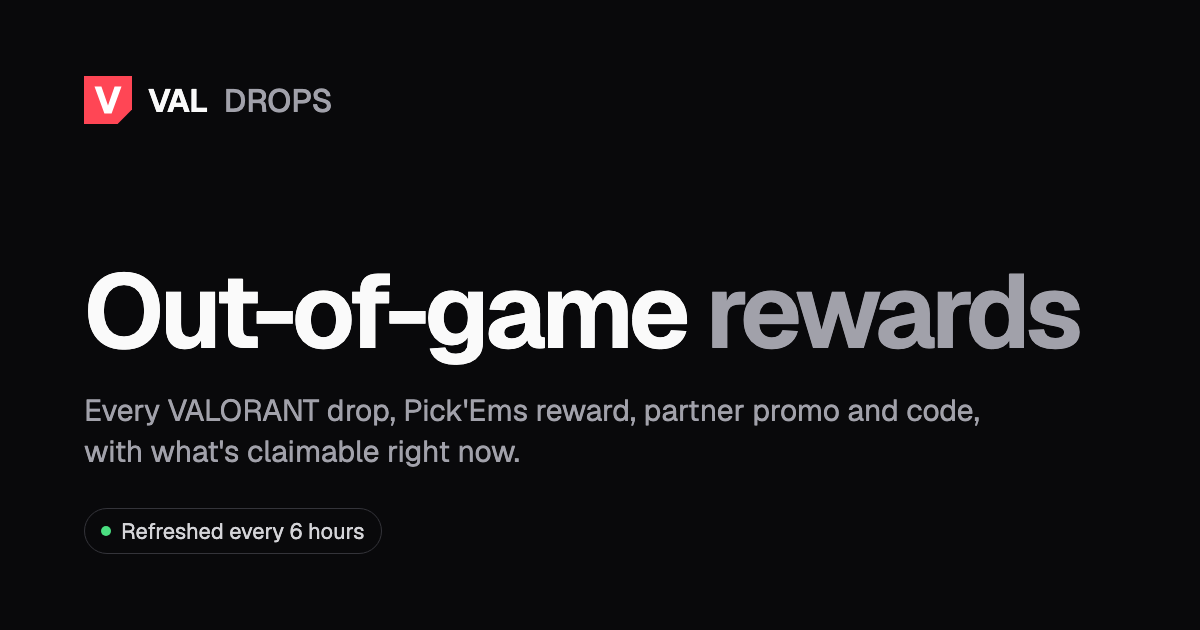
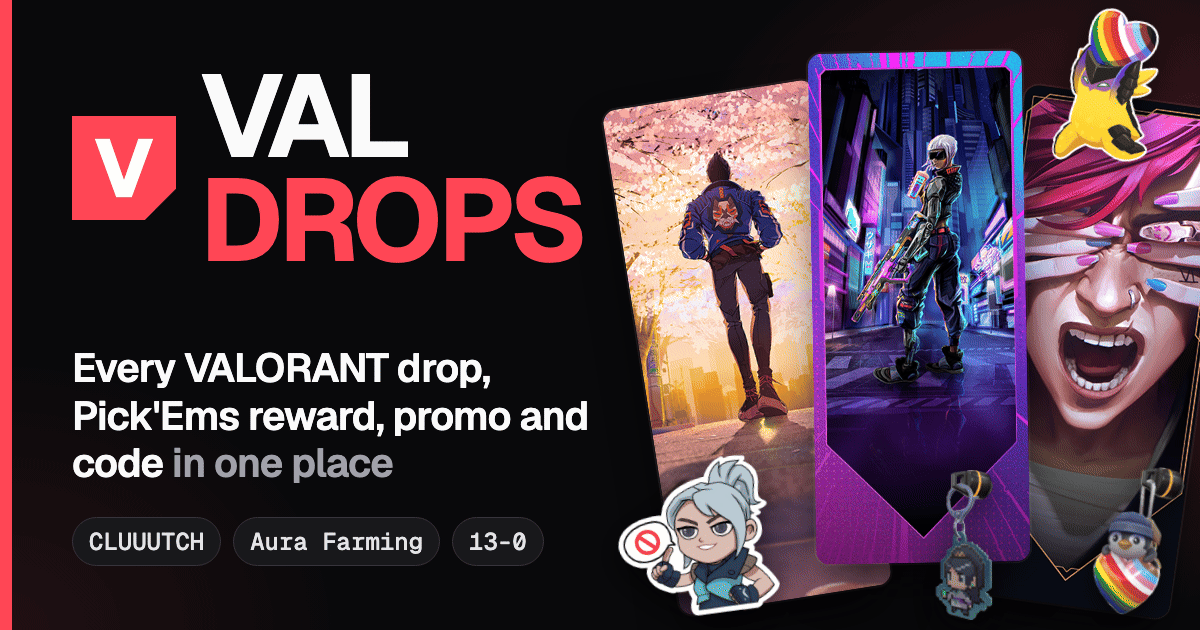
feat: redesign og:image with real item art
Link previews on Reddit/Discord showed plain text on black. The new
1200x630 image fans out real player cards, sprays and buddies from img/,
shows a few titles as pills, and keeps "VAL DROPS" large enough to read
at Reddit's ~240px thumbnail. No Riot logos or wordmark.

diff --git a/scripts/og-image.html b/scripts/og-image.html
@@ -1,32 +1,75 @@
 <!doctype html>
-<!-- Source for assets/og.png (1200×630 social preview). Render a 1200×630 screenshot of #og to regenerate it. -->
+<!-- Source for assets/og.png (1200×630 social preview). Serve the repo root (python3 -m http.server),
+     open /scripts/og-image.html at a 1200×630 viewport and screenshot #og to regenerate it.
+     The raw screenshot is ~700KB; shrink it to a 256-colour PNG (~215KB) with:
+     ffmpeg -i shot.png -vf "split[a][b];[a]palettegen=stats_mode=full[p];[b][p]paletteuse=dither=sierra2_4a" assets/og.png
+     Art is real item images from img/; no Riot logos or wordmarks, since this is a fan project.
+     The name and tagline are sized to stay readable when Reddit shrinks the image to ~240px wide. -->
 <html lang="en">
 <head>
 <meta charset="utf-8">
 <style>
   @font-face { font-family: "Geist"; font-weight: 400 700; src: url(../assets/fonts/geist-latin.woff2) format("woff2"); }
+  @font-face { font-family: "Geist Mono"; font-weight: 500; src: url(../assets/fonts/geist-mono-latin.woff2) format("woff2"); }
   body { margin: 0; }
   #og {
-    width: 1200px; height: 630px; box-sizing: border-box; padding: 76px 84px;
-    display: flex; flex-direction: column; background: #09090b; color: #fafafa; font-family: "Geist", sans-serif;
+    position: relative; overflow: hidden;
+    width: 1200px; height: 630px; box-sizing: border-box; padding: 64px 0 64px 72px;
+    /* A dark card with a soft brand glow reads as a distinct tile on both dark and light feeds. */
+    background:
+      radial-gradient(640px 520px at 92% 40%, rgba(255, 70, 85, .30), transparent 70%),
+      radial-gradient(500px 400px at 0% 100%, rgba(255, 70, 85, .10), transparent 70%),
+      #09090b;
+    color: #fafafa; font-family: "Geist", sans-serif;
   }
-  .brand { display: flex; align-items: center; gap: 16px; font-size: 32px; font-weight: 650; letter-spacing: -.01em; }
-  .brand svg { width: 48px; height: 48px; }
-  .brand span { color: #a1a1aa; font-weight: 500; }
-  h1 { margin: auto 0 0; font-size: 104px; line-height: 1; font-weight: 650; letter-spacing: -.045em; }
-  h1 em { font-style: normal; color: #a1a1aa; }
-  p { margin: 28px 0 0; font-size: 30px; color: #a1a1aa; max-width: 920px; line-height: 1.35; }
-  .pill { display: inline-flex; align-items: center; gap: 10px; margin-top: 36px; padding: 8px 16px; width: fit-content;
-    font-size: 22px; color: #d4d4d8; border: 1px solid #34343a; border-radius: 999px; }
-  .pill::before { content: ""; width: 10px; height: 10px; border-radius: 50%; background: #4ade80; }
+  #og::after { content: ""; position: absolute; left: 0; top: 0; bottom: 0; width: 12px; background: #ff4655; }
+
+  .text { position: relative; z-index: 2; width: 590px; height: 100%; display: flex; flex-direction: column; }
+  .brand { display: flex; align-items: center; gap: 24px; }
+  .brand svg { width: 104px; height: 104px; flex: none; }
+  h1 { margin: 0; font-size: 116px; line-height: .9; font-weight: 700; letter-spacing: -.045em; }
+  h1 span { display: block; color: #ff4655; }
+  p { margin: auto 0 0; font-size: 40px; line-height: 1.18; font-weight: 600; letter-spacing: -.02em; color: #fafafa; }
+  p em { font-style: normal; color: #a1a1aa; }
+  .titles { display: flex; gap: 12px; margin-top: 30px; }
+  .titles span { font: 500 24px "Geist Mono", monospace; padding: 8px 16px; border-radius: 999px;
+    background: #18181b; border: 1px solid #34343a; color: #e4e4e7; white-space: nowrap; }
+
+  /* Right-hand collage: fanned player cards with sprays and buddies on top. */
+  .art { position: absolute; inset: 0; }
+  .art img { position: absolute; display: block; }
+  .card { width: 214px; height: 511px; object-fit: cover; border-radius: 14px;
+    box-shadow: 0 24px 48px -12px rgba(0, 0, 0, .8), 0 0 0 2px rgba(255, 255, 255, .08); }
+  .c1 { left: 640px; top: 92px; transform: rotate(-9deg); }
+  .c2 { left: 812px; top: 52px; transform: rotate(-1deg); z-index: 1; }
+  .c3 { left: 990px; top: 96px; transform: rotate(8deg); }
+  .spray { width: 190px; height: 190px; filter: drop-shadow(0 10px 18px rgba(0, 0, 0, .7)); z-index: 3; }
+  .s1 { left: 604px; top: 438px; transform: rotate(-8deg); }
+  .s2 { left: 1030px; top: 8px; width: 160px; height: 160px; transform: rotate(10deg); }
+  .buddy { width: 150px; height: 150px; filter: drop-shadow(0 10px 16px rgba(0, 0, 0, .75)); z-index: 3; }
+  .b1 { left: 890px; top: 470px; }
+  .b2 { left: 1068px; top: 466px; transform: rotate(6deg); }
 </style>
 </head>
 <body>
 <div id="og">
-  <div class="brand"><svg viewBox="0 0 32 32"><path fill="#ff4655" d="M0 0h32v22.4L22.4 32H0z"/><path fill="#fff" d="M7 7h4.6L16 19.6 20.4 7H25l-6.6 18h-4.8z"/></svg>VAL <span>DROPS</span></div>
-  <h1>Out-of-game <em>rewards</em></h1>
-  <p>Every VALORANT drop, Pick'Ems reward, partner promo and code, with what's claimable right now.</p>
-  <div class="pill">Refreshed every 6 hours</div>
+  <div class="art">
+    <img class="card c1" src="../img/Sakura_Tokyo_Card_Large_600.webp" alt="">
+    <img class="card c2" src="../img/Glitchpop_Card_Large_600.webp" alt="">
+    <img class="card c3" src="../img/Horrors_I_ve_Seen_Card_Large_600.webp" alt="">
+    <img class="spray s1" src="../img/Not_Today_Spray_600.webp" alt="">
+    <img class="spray s2" src="../img/All_Love_Spray_600.webp" alt="">
+    <img class="buddy b1" src="../img/Pocket_Sage_Buddy.webp" alt="">
+    <img class="buddy b2" src="../img/Flyby_Hug_Buddy.webp" alt="">
+  </div>
+  <div class="text">
+    <div class="brand">
+      <svg viewBox="0 0 32 32"><path fill="#ff4655" d="M0 0h32v22.4L22.4 32H0z"/><path fill="#fff" d="M7 7h4.6L16 19.6 20.4 7H25l-6.6 18h-4.8z"/></svg>
+      <h1>VAL<span>DROPS</span></h1>
+    </div>
+    <p>Every VALORANT drop, Pick'Ems reward, promo and code <em>in one place</em></p>
+    <div class="titles"><span>CLUUUTCH</span><span>Aura Farming</span><span>13-0</span></div>
+  </div>
 </div>
 </body>
 </html>
